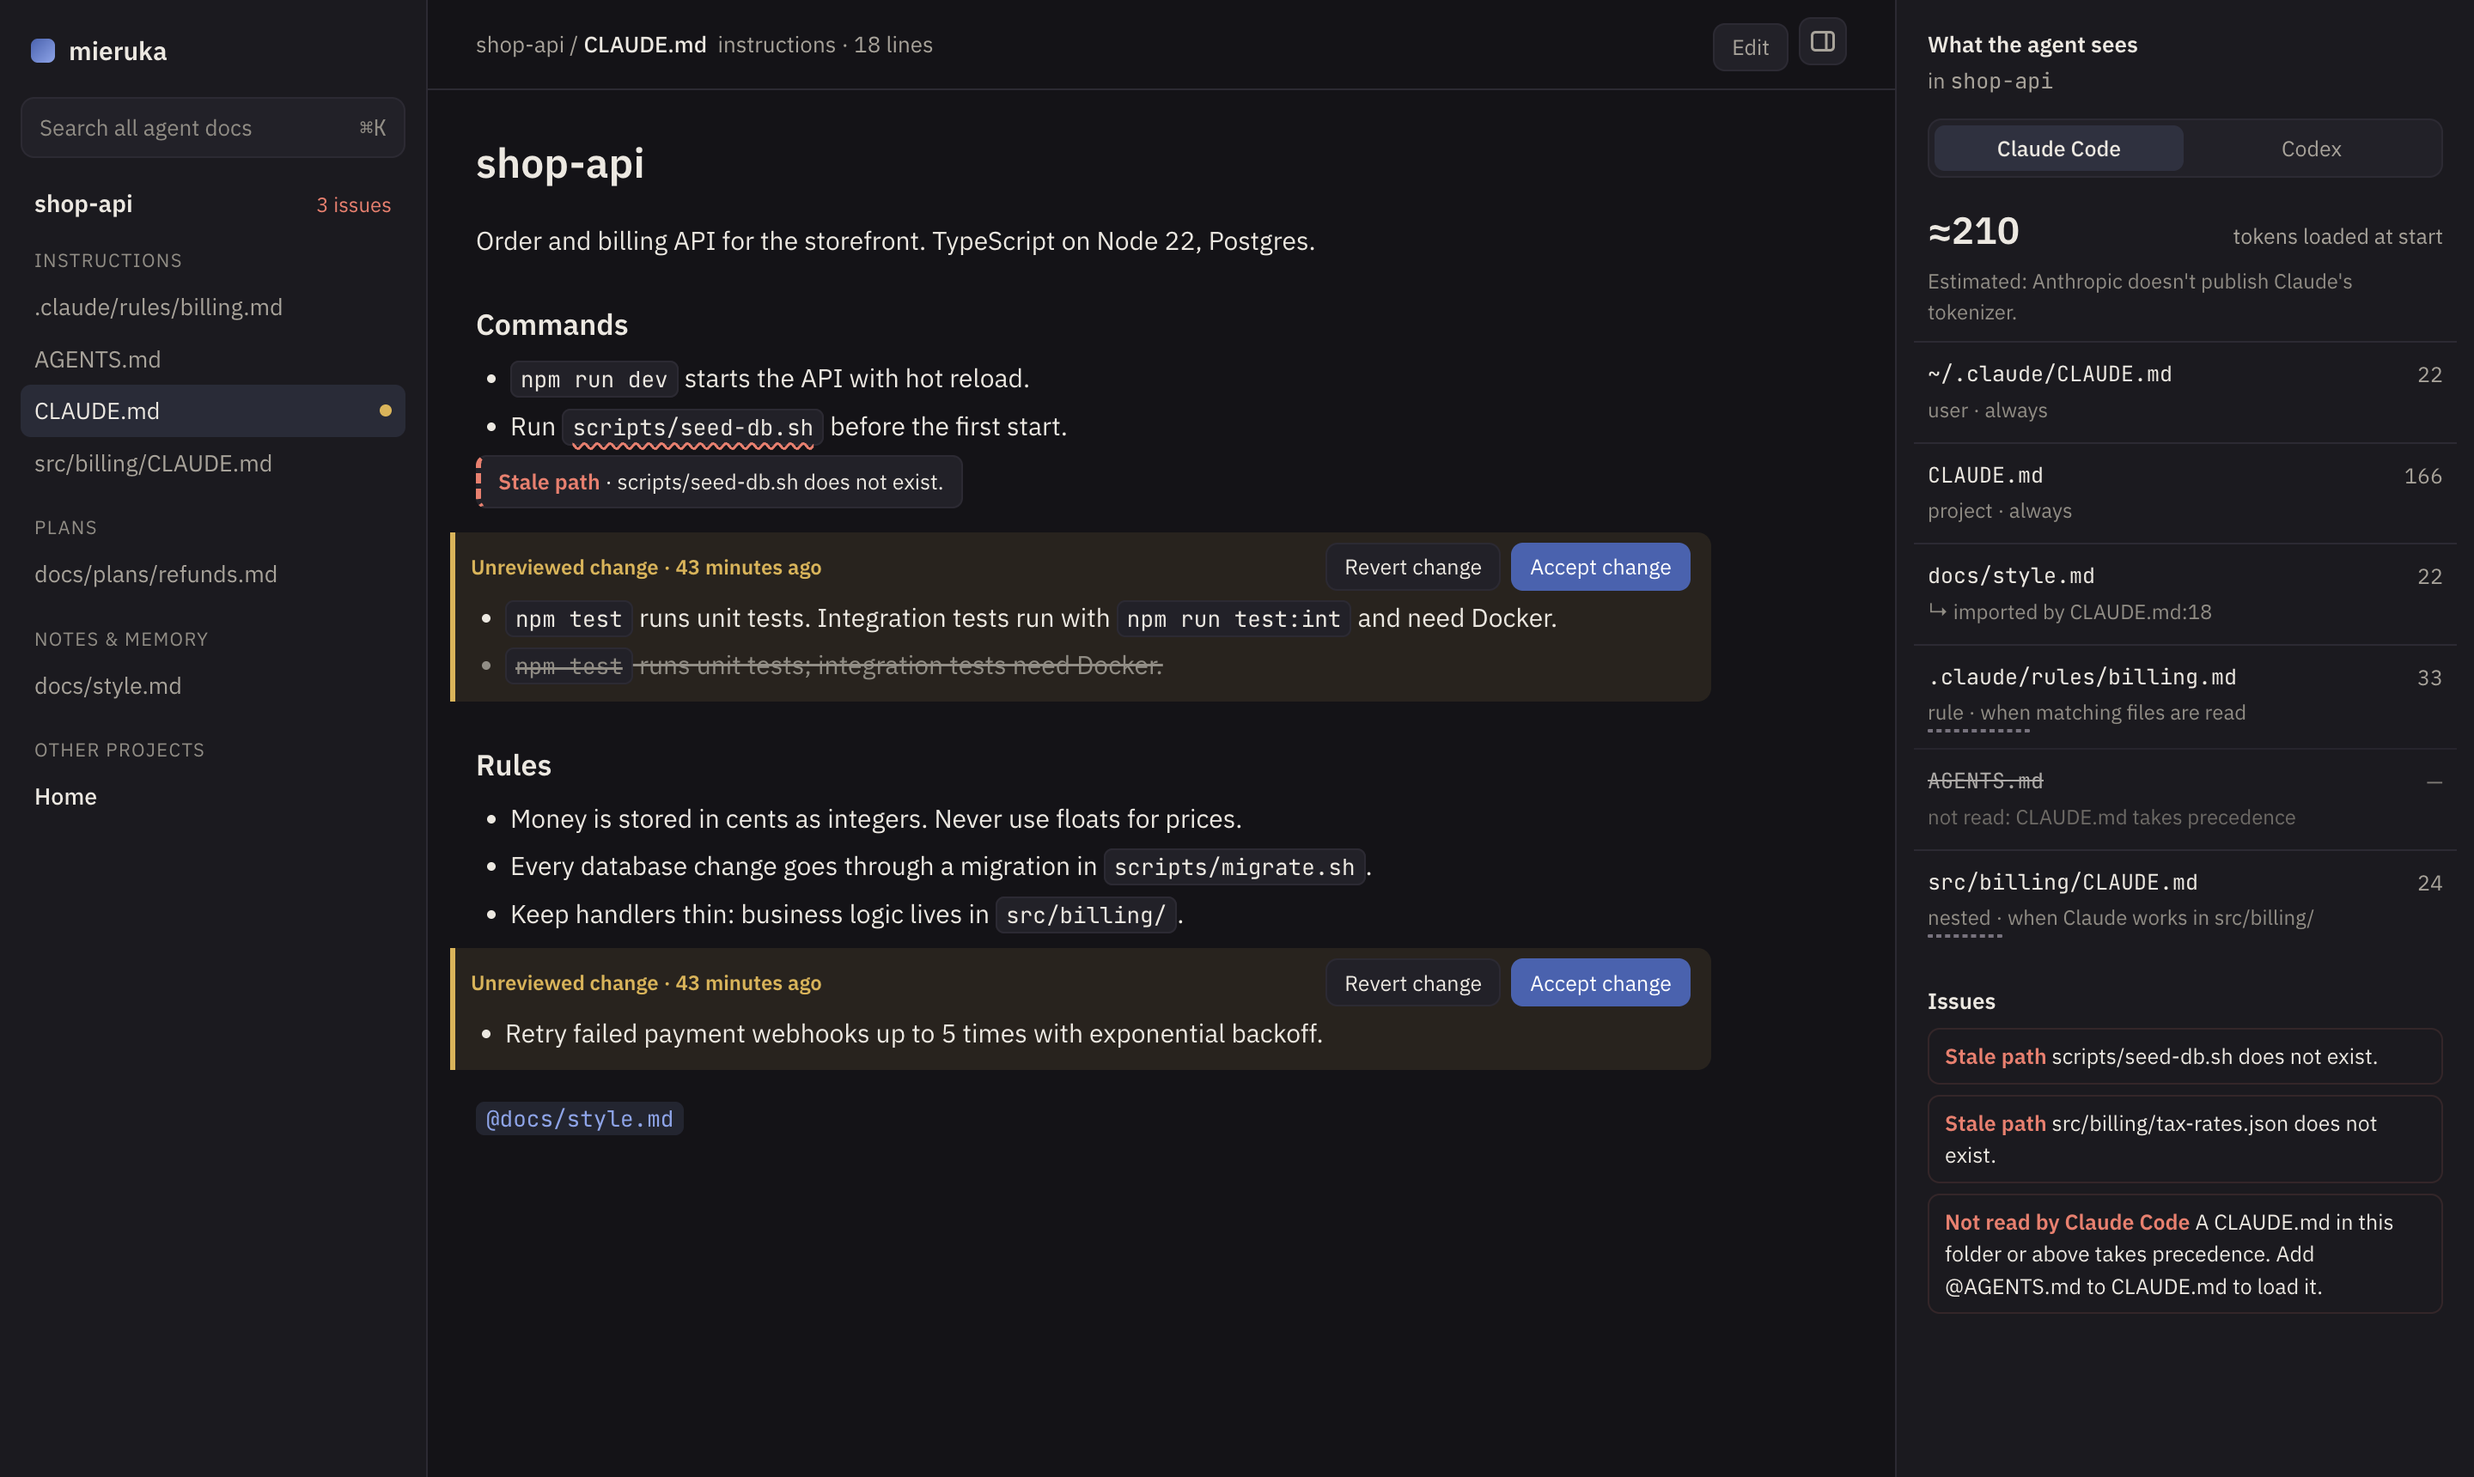
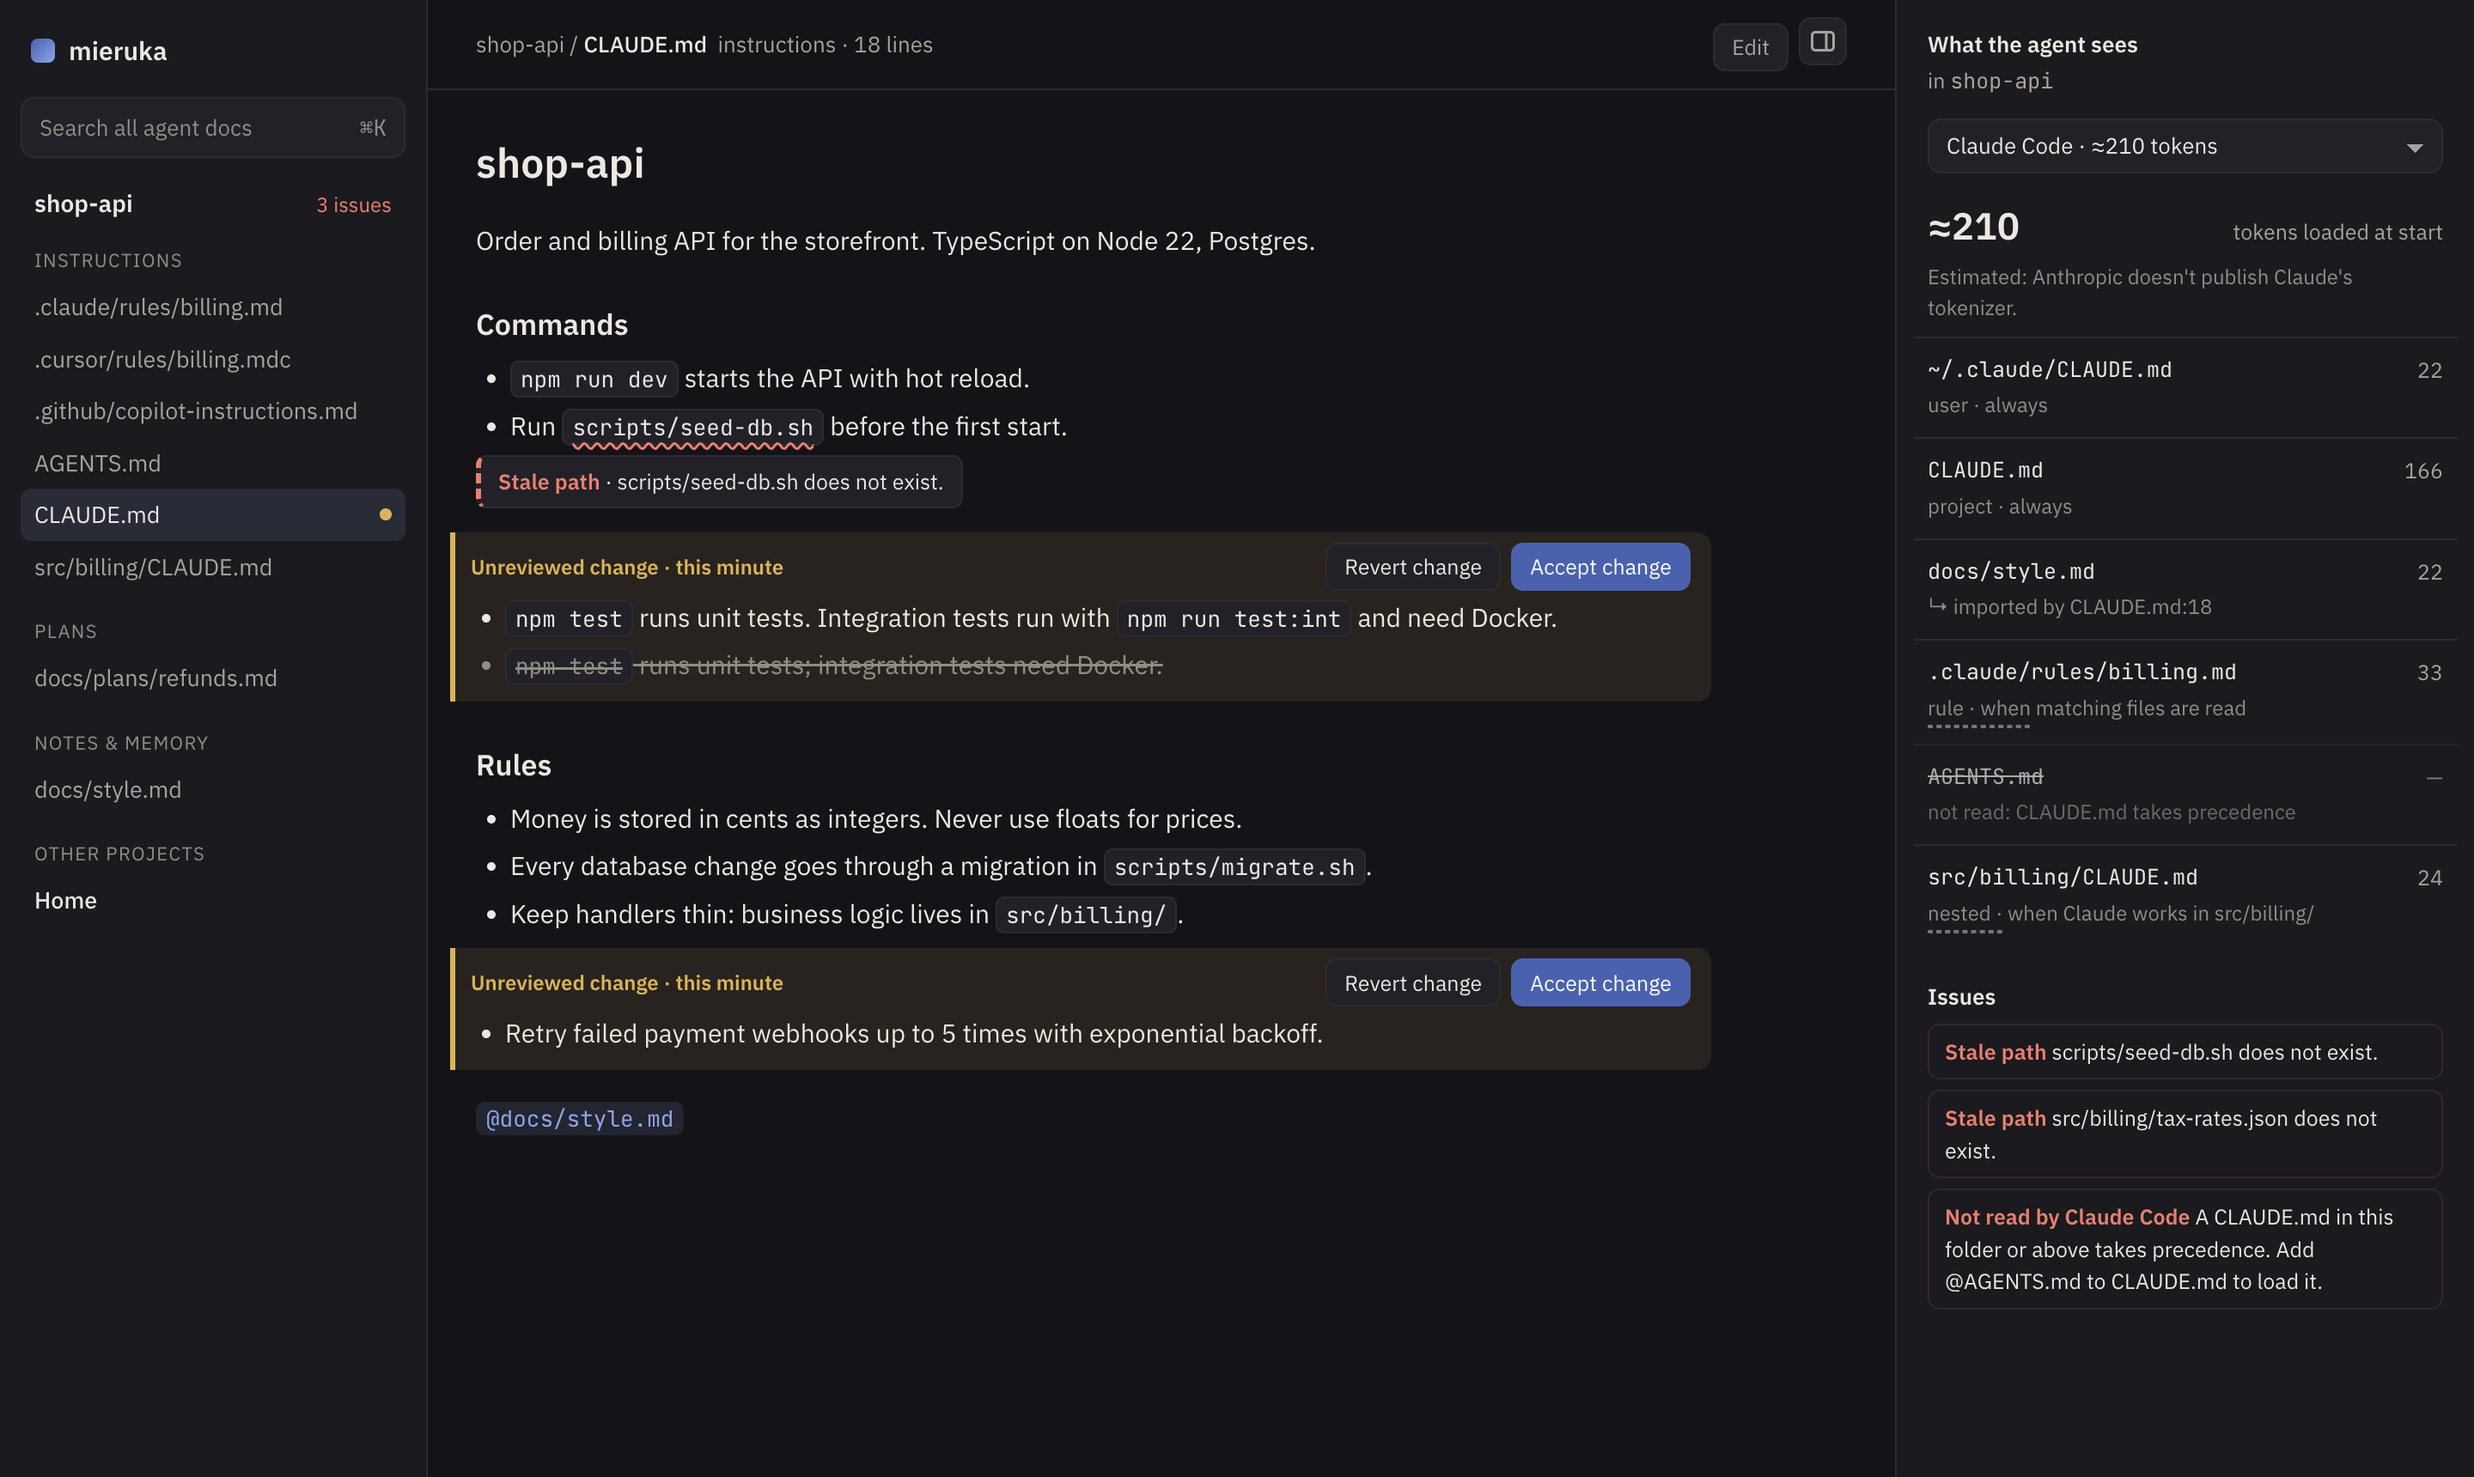
Describe the new agents in the README and refresh screenshots

diff --git a/README.md b/README.md
@@ -7,7 +7,7 @@
 
 <p align="center">
   See what your coding agent sees.<br>
-  A local app for the Markdown files Claude Code and Codex read. It shows which ones the agent loads, what is wrong in them, and what changed since you last looked.
+  A local app for the Markdown files your coding agents read: Claude Code, Codex, Cursor, GitHub Copilot and Antigravity. It shows which ones each agent loads, what is wrong in them, and what changed since you last looked.
 </p>
 
 <p align="center">
@@ -32,12 +32,13 @@ A coding agent starts every session by reading instruction files, and the rules 
 
 - Claude Code reads `CLAUDE.md` from every folder above the one you start in, follows `@imports` four levels deep, loads `src/CLAUDE.md` only when it works in `src/`, and ignores `AGENTS.md` if any `CLAUDE.md` exists.
 - Codex reads one `AGENTS.md` per folder from the git root down, and silently cuts everything past 32 KiB.
+- Cursor and Antigravity keep rules in their own folders with their own frontmatter. A Cursor rule saved as `.md` instead of `.mdc`, or an Antigravity rule without a `trigger`, is dropped without a word.
 - Agents edit these files too, so a new rule can land in your instructions or memory without anyone reviewing it.
 
 ## What it does
 
 - For each project and agent, the panel on the right lists the files loaded at session start, the ones loaded later, and the ones skipped with the reason. Token counts are estimates.
-- Checks flag paths that no longer exist (with a "did you mean"), broken or too-deep imports, an `AGENTS.md` that Claude Code never reads, files Codex cuts off, files loaded twice and an oversized `CLAUDE.md`. They are conservative on purpose, because a false alarm costs more than a missed one.
+- Checks flag paths that no longer exist (with a "did you mean"), broken or too-deep imports, an `AGENTS.md` that Claude Code never reads, rule files Cursor or Antigravity ignore, files Codex or Antigravity cut off, files loaded twice and an oversized `CLAUDE.md`. They are conservative on purpose, because a false alarm costs more than a missed one.
 - Instruction files and Claude's project memory are tracked. An edit made outside mieruka shows up as an unreviewed change, item by item, with Accept and Revert buttons. Revert can be undone.
 - After you mark a document as read, the parts that change later are highlighted.
 - Documents read like formatted text, `[[wiki links]]` included. The editor has a live preview and refuses to save over a file that changed on disk while you were editing.
@@ -89,7 +90,9 @@ CLAUDE.md:8  warning  Stale path [stale-path]
 
 ## Where the rules come from
 
-The loading rules come from the vendors' own documentation: [Claude Code memory](https://code.claude.com/docs/en/memory) and the [Codex AGENTS.md guide](https://developers.openai.com/codex/guides/agents-md). When a rule changes upstream, mieruka has to be updated, so if you notice a difference, please open an issue.
+The loading rules come from the vendors' own documentation: [Claude Code memory](https://code.claude.com/docs/en/memory), the [Codex AGENTS.md guide](https://developers.openai.com/codex/guides/agents-md), [Cursor rules](https://cursor.com/docs/context/rules), [Copilot repository instructions](https://docs.github.com/en/copilot/how-tos/configure-custom-instructions/add-repository-instructions) and [Antigravity rules](https://antigravity.google/docs/rules). When a rule changes upstream, mieruka has to be updated, so if you notice a difference, please open an issue.
+
+Copilot is shown as it works on GitHub.com, where git-ignored files don't exist. In VS Code, what Copilot reads depends on the agent you pick. Antigravity replaced Gemini CLI and still reads `GEMINI.md`.
 
 Token counts are estimates. Anthropic doesn't publish Claude's tokenizer, so mieruka shows `≈` everywhere.
 
@@ -99,7 +102,7 @@ Nothing leaves your machine. mieruka writes only to the files you edit or revert
 
 ## Roadmap
 
-Cursor, GitHub Copilot and Gemini CLI rules; checks for instructions that contradict each other; comments on documents; live reload.
+Checks for instructions that contradict each other; comments on documents; live reload; Copilot in VS Code.
 
 ## License
 
